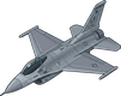
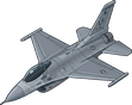
F-16 up to 88px, and its nozzle scaled with it
80 still read small beside the F-15's 76, because the F-16's render frames
taller than the others - more of its bounding box is fin, so height-based sizing
under-sizes the aircraft inside it. 88 puts the fuselage where the eye expects.

RESIZING BREAKS A PLACED RIG, which is worth knowing before the next one. Rig
offsets are pixels from the body centre, so growing the sprite leaves the nozzle
behind: the hub moves to (37.0, -12.0) and its scale to 1.32, both multiplied by
the same 88/80. The ANGLE does not move - it is a rotation, not a length.

Rescaled rather than re-placed, so the placement made in game is kept. The seed
in fleet.gd is updated to the placed values too, so it no longer disagrees with
the rig by 12 degrees.

diff --git a/tools/newfleet_derive.py b/tools/newfleet_derive.py
@@ -108,7 +108,7 @@ MODELS = {
                          "body_forest": ("hughes_h4_liveries.png", 2)}),
     # Two fighters. 9.96m and 9.25m span, so both sit under the F-15's 76 -
     # the smallest things in the fleet after the Paper Plane.
-    "f16":        (80, {"body": "f16_default.png"}),
+    "f16":        (88, {"body": "f16_default.png"}),
     "harrier":    (76, {"body": "av8b_harrier_default.png"}),
     # THE FIRST TWO PAST LEVEL 50. Both are Snow's, and both are polar aircraft
     # rather than more airliners - see ROADMAP item 10 for why the tail entries
